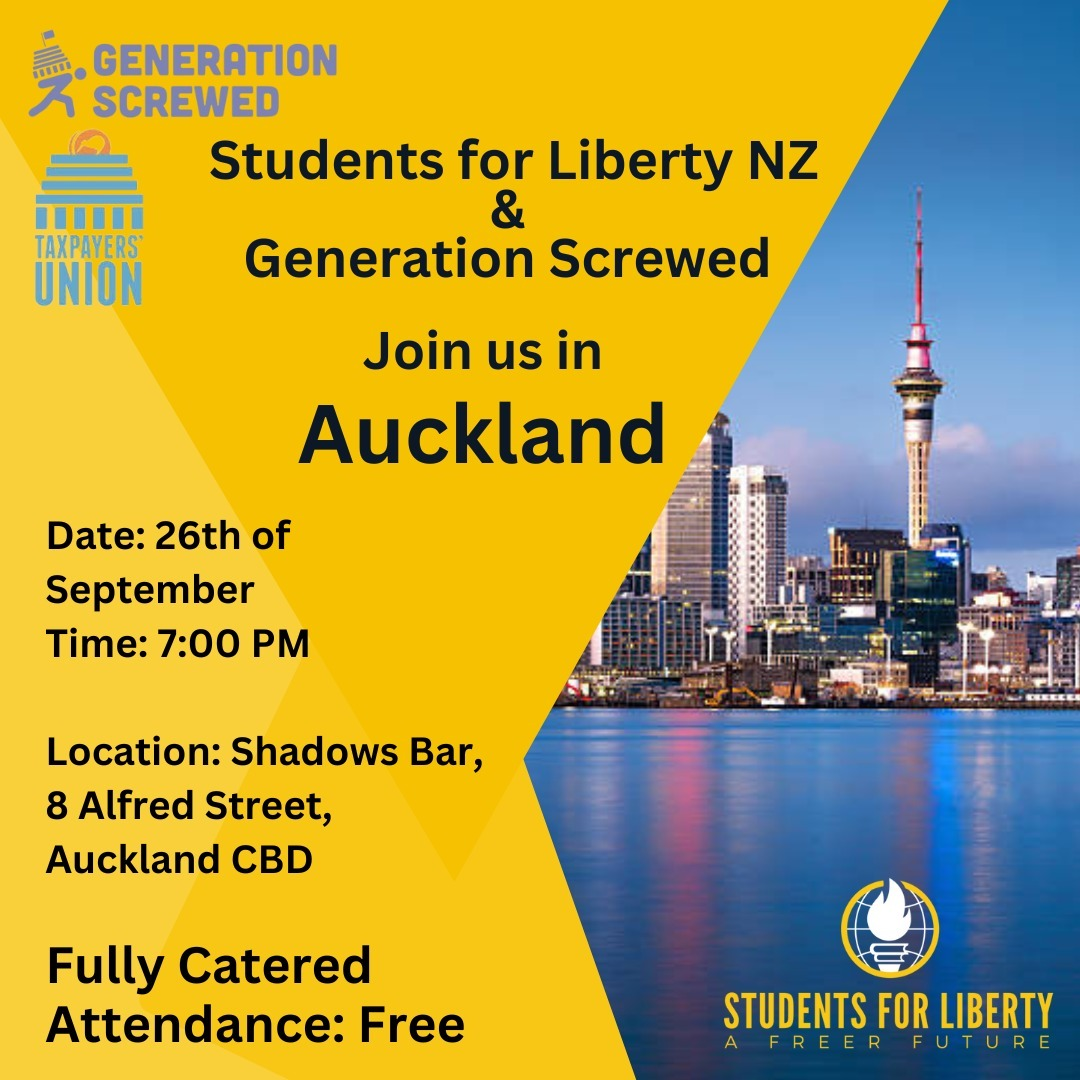
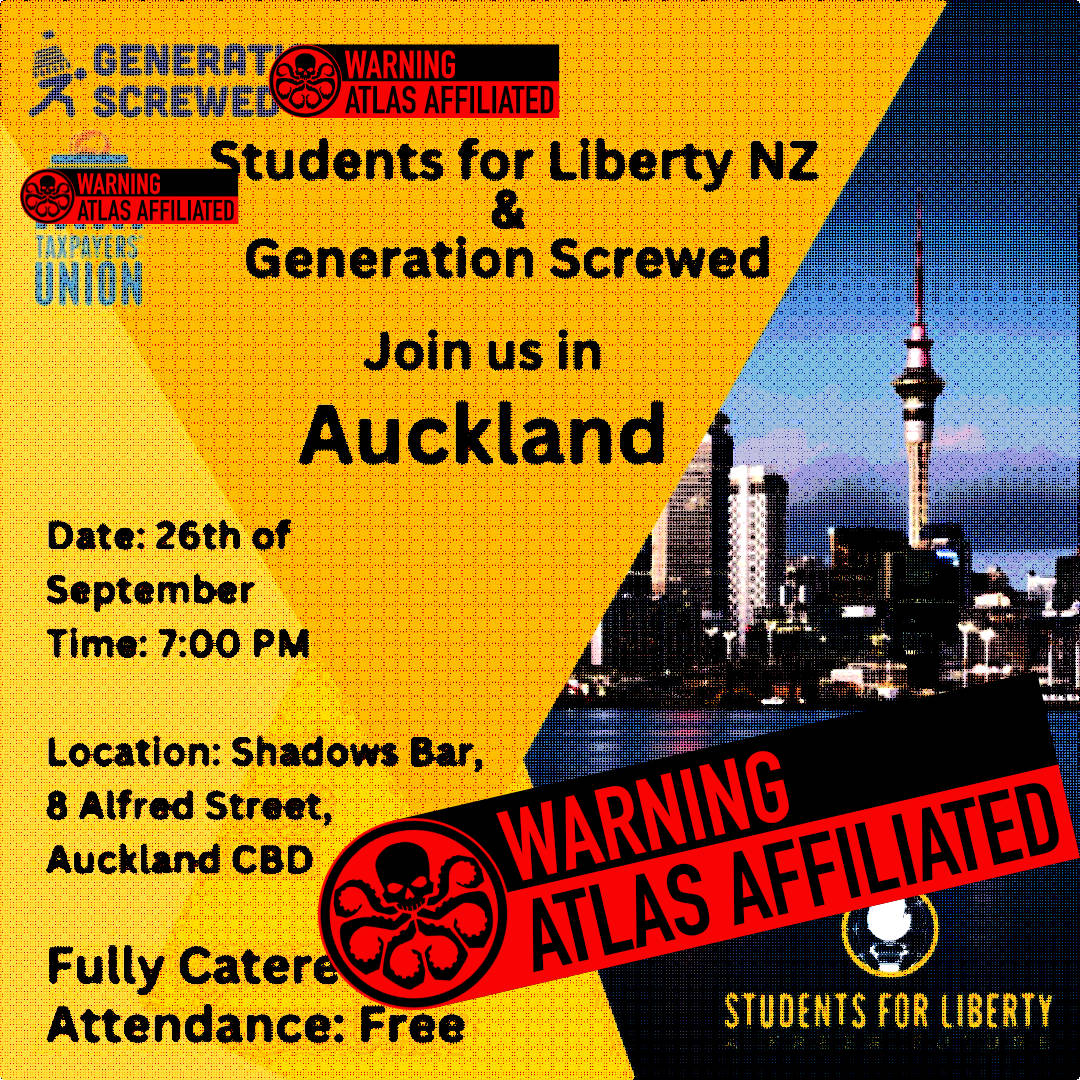
atlas

diff --git a/docs/2024/09/20/atlas-on-campus/index.html b/docs/2024/09/20/atlas-on-campus/index.html
@@ -2,8 +2,9 @@
 <p><img src="/media/sfl-event.jpg" alt="Students for Liberty">
 SFL is a member of Atlas Network and they are invading our campus. They are part of a libertarian organization that stokes culture-wars and climate change denial in order to keep politicians which cut taxes in power – particularly taxes on <strong>tobacco industries</strong>. They intend to use our campus and people to do it and <strong>they are VERY WELL FUNDED.</strong> They are not the university. We are. If they want to try claim our identity as students they will have to fight us for it.</p>
 <hr>
-<p>Here is some information about the Atlas Network and the Koch family that fund them:</p>
-<h1><a href="https://en.wikipedia.org/wiki/Students_for_Liberty">SFL Wikipedia Page</a></h1>
+<p>Here is some information about SFL and both the Atlas Network and the Koch family that fund them:</p>
+<h1>Students for Liberty</h1>
+<p>From the <a href="https://en.wikipedia.org/wiki/Students_for_Liberty">SFL Wikipedia Page</a>.</p>
 <blockquote>
 <ul>
 <li>Le Monde and The Investigative Desk described SFL as &quot;<strong>a key organisation in the Koch system</strong>&quot; of groups.[12] SFL is a <strong>partner in the Atlas Network</strong>.</li>
@@ -11,15 +12,20 @@ SFL is a member of Atlas Network and they are invading our campus. They are part
 </ul>
 </blockquote>
 <p>Their book titles demonstrate their focus on stoking culture wars between staff and students in order to promote bullshit ideologies of individualism: &quot;The Economics of Freedom: What Your Professor Won&#39;t Tell You&quot;, &quot;The Morality of Capitalism: What Your Professors Won&#39;t Tell You&quot;, &quot;After the Welfare State, and Why Liberty&quot;</p>
-<p><a href="https://en.wikipedia.org/wiki/Atlas_Network">Atlas Network Wikipedia Page</a></p>
-<blockquote>
+<h1>ATLAS Network</h1>
+<ul>
+<li><a href="https://www.psa.org.nz/our-voice/understanding-atlas-how-a-right-wing-network-is-building-global-influence/">PSA have written about ATLAS here</a>.</li>
+<li><a href="https://tobaccotactics.org/article/atlas-network/">The University of Bath&#39;s Tobacco Control Research Group have written about ATLAS here</a></li>
+<li><a href="https://en.wikipedia.org/wiki/Atlas_Network">Atlas Network Wikipedia Page</a><blockquote>
 <ul>
 <li>Atlas Network [...] is a non-governmental 501(c)(3) organization based in the United States that provides training, networking, and grants for libertarian, free-market, and conservative groups around the world.[4][5][6]</li>
 <li><strong>Notable members of Atlas Network include [...] the New Zealand Taxpayers&#39; Union</strong>.[11][12][13]</li>
 <li>Margaret Thatcher, F. A. Hayek, and Milton Friedman, all friends of Fisher, formally endorsed the organization.[9][16]</li>
 <li>Initially comprising only Fisher&#39;s think tanks, Atlas Network grew to include many others, including those affiliated with the <a href="https://en.wikipedia.org/wiki/Koch_family">Koch family</a>.</li>
 <li>The rapid growth of Atlas, now arguably the largest think tank network in the world, was partly <strong>prompted by challenges to fossil fuel interests from governmental efforts against climate change</strong>, Bryan S. Turner suggests.[31]</li>
-<li>According to The Guardian, <strong>more than a fifth of Atlas Network affiliates worldwide had either opposed tobacco controls or taken tobacco donations</strong>.[32][33][34] A 2017 paper in the International Journal of Health Planning and Management said that <strong>Atlas Network &quot;channeled funding from tobacco corporations to think tank actors to produce publications supportive of industry positions.&quot;</strong>[35] The University of Bath&#39;s Tobacco Control Research Group said <strong>Atlas Network &quot;appears to have played a particular role in helping the tobacco industry oppose tobacco control measures in Latin America&quot;</strong> during the 1990s.[36] <strong>In 2022, Le Monde identified 17 Atlas Network partners engaged in lobbying and advocacy for &quot;tobacco harm reduction,&quot; which supports vaping as a substitute for smoking.</strong>[33]</li>
+<li>According to The Guardian, <strong>more than a fifth of Atlas Network affiliates worldwide had either opposed tobacco controls or taken tobacco donations</strong>.[32][33][34]</li>
+<li>A 2017 paper in the International Journal of Health Planning and Management said that <strong>Atlas Network &quot;channeled funding from tobacco corporations to think tank actors to produce publications supportive of industry positions.&quot;</strong>[35]</li>
+<li>The University of Bath&#39;s Tobacco Control Research Group said <strong>Atlas Network &quot;appears to have played a particular role in helping the tobacco industry oppose tobacco control measures in Latin America&quot;</strong> during the 1990s.[36]</li>
 <li><strong>Atlas Network has been linked to oil and gas producers, and to efforts opposing initiatives by governments and activists on climate change</strong>.[37][38][39][31] </li>
 <li>It collaborated with the Macdonald-Laurier Institute of Canada in <strong>a push for oil and gas development on Indigenous land</strong>, according to documents described in The Guardian.[40] </li>
 <li>Its affiliates in Canada have &quot;extensive and deepening board interlocks&quot; involving the <strong>fossil fuel industry, other policy groups, and academia, and are &quot;a reactionary current&quot; against most climate actions</strong>, Nicolas Graham wrote in the Canadian Review of Sociology.[41]</li>
@@ -27,6 +33,8 @@ SFL is a member of Atlas Network and they are invading our campus. They are part
 <li>Some academics have described Atlas as <strong>an &quot;oil-industry-funded transnational network&quot;[37] and &quot;the predominant vehicle for fossil capital&#39;s global mobilization against climate science and policy&quot;</strong>,[43] and its affiliates as being <strong>&quot;partly funded by Koch and allied capitalists, with heavy support from fossil fuel-based fortunes&quot;</strong>.[31]</li>
 </ul>
 </blockquote>
+</li>
+</ul>
 <blockquote>
 <ul>
 <li>The Intercept, The Guardian, and The New Republic have described <strong>Atlas Network as having ties to right-wing and conservative movements, including the administration of Donald Trump in the United States, Brexit in the United Kingdom, and anti-government protests in Latin America</strong>.[4][44][11] </li>
@@ -49,7 +57,8 @@ SFL is a member of Atlas Network and they are invading our campus. They are part
 <li><strong>As of 2020, Atlas Network had assets of $15,450,264.[97]</strong></li>
 </ul>
 </blockquote>
-<h1><a href="https://en.wikipedia.org/wiki/Koch_family">Koch family Wikipedia Page</a></h1>
+<h1>Koch family</h1>
+<p><a href="https://en.wikipedia.org/wiki/Koch_family">Koch family Wikipedia Page</a></p>
 <blockquote>
 <ul>
 <li>Bill Koch [...] particularly opposing the Obama administration&#39;s <strong>climate change</strong> program</li>

diff --git a/source/blog/2024/09/20/atlas-on-campus.md b/source/blog/2024/09/20/atlas-on-campus.md
@@ -12,21 +12,27 @@ SFL is a member of Atlas Network and they are invading our campus. They are part
 
 ---
 
-Here is some information about the Atlas Network and the Koch family that fund them:
+Here is some information about SFL and both the Atlas Network and the Koch family that fund them:
 
-# [SFL Wikipedia Page](https://en.wikipedia.org/wiki/Students_for_Liberty)
+# Students for Liberty
+From the [SFL Wikipedia Page](https://en.wikipedia.org/wiki/Students_for_Liberty).
 > - Le Monde and The Investigative Desk described SFL as "**a key organisation in the Koch system**" of groups.[12] SFL is a **partner in the Atlas Network**.
 > - The organization **has received financial support from billionaires David Koch and Charles Koch** and related groups such as the Cato Institute.[47] According to Le Monde and The Investigative Desk, **Students for Liberty has not formally disclosed its funders since 2016**.[12]
 
 Their book titles demonstrate their focus on stoking culture wars between staff and students in order to promote bullshit ideologies of individualism: "The Economics of Freedom: What Your Professor Won't Tell You", "The Morality of Capitalism: What Your Professors Won't Tell You", "After the Welfare State, and Why Liberty"
 
-[Atlas Network Wikipedia Page](https://en.wikipedia.org/wiki/Atlas_Network)
+# ATLAS Network
+- [PSA have written about ATLAS here](https://www.psa.org.nz/our-voice/understanding-atlas-how-a-right-wing-network-is-building-global-influence/).
+- [The University of Bath's Tobacco Control Research Group have written about ATLAS here](https://tobaccotactics.org/article/atlas-network/)
+- [Atlas Network Wikipedia Page](https://en.wikipedia.org/wiki/Atlas_Network)
 > - Atlas Network [...] is a non-governmental 501(c)(3) organization based in the United States that provides training, networking, and grants for libertarian, free-market, and conservative groups around the world.[4][5][6]
 > - **Notable members of Atlas Network include [...] the New Zealand Taxpayers' Union**.[11][12][13]
 > - Margaret Thatcher, F. A. Hayek, and Milton Friedman, all friends of Fisher, formally endorsed the organization.[9][16]
 > - Initially comprising only Fisher's think tanks, Atlas Network grew to include many others, including those affiliated with the [Koch family](https://en.wikipedia.org/wiki/Koch_family).
 > - The rapid growth of Atlas, now arguably the largest think tank network in the world, was partly **prompted by challenges to fossil fuel interests from governmental efforts against climate change**, Bryan S. Turner suggests.[31]
-> - According to The Guardian, **more than a fifth of Atlas Network affiliates worldwide had either opposed tobacco controls or taken tobacco donations**.[32][33][34] A 2017 paper in the International Journal of Health Planning and Management said that **Atlas Network "channeled funding from tobacco corporations to think tank actors to produce publications supportive of industry positions."**[35] The University of Bath's Tobacco Control Research Group said **Atlas Network "appears to have played a particular role in helping the tobacco industry oppose tobacco control measures in Latin America"** during the 1990s.[36] **In 2022, Le Monde identified 17 Atlas Network partners engaged in lobbying and advocacy for "tobacco harm reduction," which supports vaping as a substitute for smoking.**[33]
+> - According to The Guardian, **more than a fifth of Atlas Network affiliates worldwide had either opposed tobacco controls or taken tobacco donations**.[32][33][34]
+> - A 2017 paper in the International Journal of Health Planning and Management said that **Atlas Network "channeled funding from tobacco corporations to think tank actors to produce publications supportive of industry positions."**[35]
+> - The University of Bath's Tobacco Control Research Group said **Atlas Network "appears to have played a particular role in helping the tobacco industry oppose tobacco control measures in Latin America"** during the 1990s.[36]
 > - **Atlas Network has been linked to oil and gas producers, and to efforts opposing initiatives by governments and activists on climate change**.[37][38][39][31] 
 > - It collaborated with the Macdonald-Laurier Institute of Canada in **a push for oil and gas development on Indigenous land**, according to documents described in The Guardian.[40] 
 > - Its affiliates in Canada have "extensive and deepening board interlocks" involving the **fossil fuel industry, other policy groups, and academia, and are "a reactionary current" against most climate actions**, Nicolas Graham wrote in the Canadian Review of Sociology.[41]
@@ -49,7 +55,8 @@ Their book titles demonstrate their focus on stoking culture wars between staff 
 > - Of **Atlas Network partners, 57% in the United States received funding from the tobacco industry between 1990 and 2000**.[35] Analysis in the International Journal of Health Planning and Management in 2016 said that a lack of transparency and data about think tank funding had made it difficult to ascertain the amounts of tobacco industry funding to Atlas Network and partners since 2003.[35]
 > - **As of 2020, Atlas Network had assets of $15,450,264.[97]**
 
-# [Koch family Wikipedia Page](https://en.wikipedia.org/wiki/Koch_family)
+# Koch family
+[Koch family Wikipedia Page](https://en.wikipedia.org/wiki/Koch_family)
 > - Bill Koch [...] particularly opposing the Obama administration's **climate change** program
 > - Brothers Charles and David who have become famous for their activity in American politics [...]. 
 > - Through their family foundations, the brothers contributed to 34 political and policy organizations
